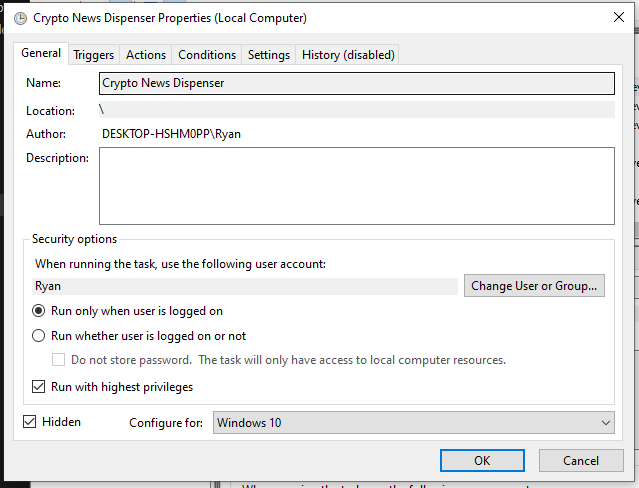
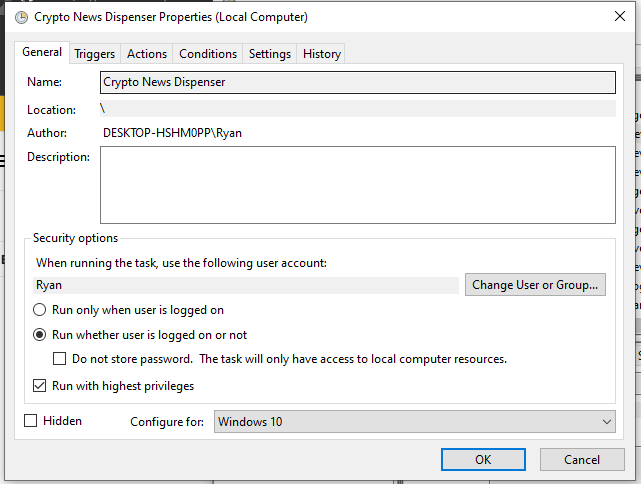
removed db from git, added logging folder, updated db path so doesn't fail during windows task scheduler

Changed region(s): [[0.0, 0.0, 1.0, 1.0]]

diff --git a/main.py b/main.py
@@ -15,7 +15,9 @@ intents.message_content = True
 
 client = discord.Client(intents=intents)
 
-db_path = os.path.join(os.getcwd(), "sql\database.db")
+# db_path = os.path.join(os.getcwd(), "sql/database.db")
+db_path = "C:/Users/Ryan/Desktop/discord-crypto-bot/sql/database.db"
+# print(db_path)
 
 
 async def scrape_news():
@@ -24,11 +26,11 @@ async def scrape_news():
     # [(article title, article link), ...]
     stories = scrape_manager.scrape_all()
 
-    # check if stories have already been linked
-    # remove all linked story from stories
-    # for story in stories:
-    #     db_manager.does_article_exist(db_path, story[0], story[1])
-    #     del stories[i]
+    print()
+    print()
+    print("scrape_manager.scrape_all()")
+    for story in stories:
+        print(f"{story[0]}, {story[1]}")
 
     indexes_to_del = []
 
@@ -39,13 +41,23 @@ async def scrape_news():
             indexes_to_del.insert(0, i)
 
     # remove stories that have already been linked
+    print()
+    print()
+    print("stories that have already been linked")
     for index in indexes_to_del:
-        print(index)
+        print(f"{stories[index][0]}, {stories[index][1]}")
         del stories[index]
 
+    print()
+    print()
+    print("stories to link")
     for story in stories:
+        print(f"{story[0]}, {story[1]}")
         await ch.send(content=f'{story[0]} {story[1]}')
         db_manager.add_article(db_path, story[0], story[1])
+
+    print()
+    print()
 
 
 @client.event
